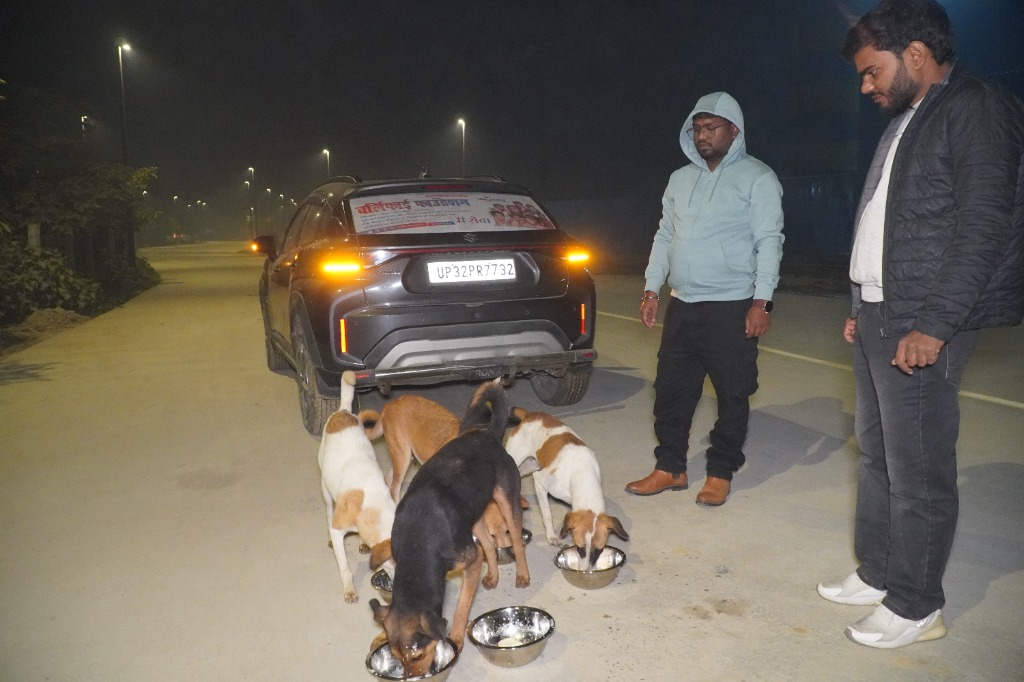
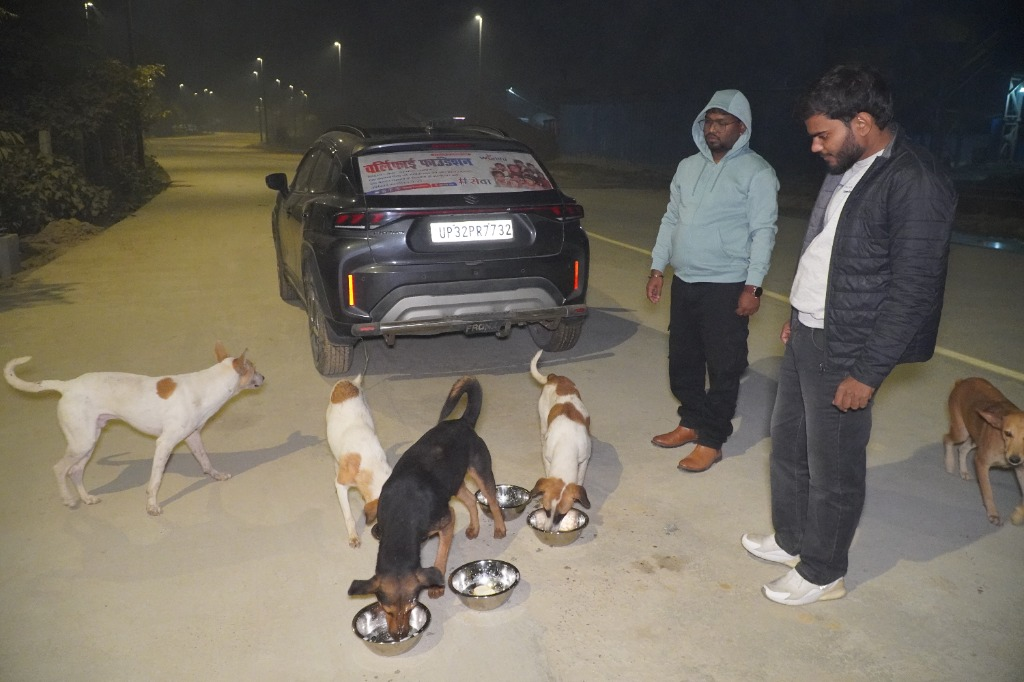
fixes

diff --git a/src/components/Gallery.jsx b/src/components/Gallery.jsx
@@ -31,6 +31,9 @@ import elderlyWelfare from '../assets/images/elderly_welfare_check.png';
 import homeRepair from '../assets/images/home_repair_widow.png';
 import saharaHero from '../assets/images/sahara_hero_support.png';
 import seniorMedicine from '../assets/images/senior_medicine_distribution.png';
+import galleryAward from '../assets/images/gallery_award_presentation.jpg';
+import galleryPlantation from '../assets/images/gallery_tree_plantation.jpg';
+import kioskBooth from '../assets/images/worlify_kiosk_booth.jpg';
 
 export default function Gallery({ setActiveTab, setDonationPreload }) {
   // Filter & Pagination States
@@ -54,26 +57,26 @@ export default function Gallery({ setActiveTab, setDonationPreload }) {
   const galleryItems = useMemo(() => [
 
     {
-      id: 2,
-      title: "Elderly Food Ration & Healthcare Support Drive",
-      category: "Senior Care",
-      image: elderlyFood,
-      description: "Monthly nutritious ration distribution and wellness checks for abandoned senior citizens.",
-      views: "3.9k Views",
-      date: "May 2026",
-      fullStory: "Our Project Sahara ensures destitute elderly citizens receive monthly dry ration boxes, essential vitamin supplements, and weekly door-step nurse visits across suburban informal settlements.",
-      location: "Varanasi & Kanpur Shelters"
+      id: 1,
+      title: "Amity Euphoria 2026 Honor & Award Ceremony",
+      category: "Volunteers",
+      image: galleryAward,
+      description: "Recognizing outstanding youth leadership and social impact contributions.",
+      views: "8.5k Views",
+      date: "Feb 2026",
+      fullStory: "Worlify Foundation leadership receiving the honor award at Amity Euphoria 2026 for outstanding community service, youth mobilization, and social welfare drives.",
+      location: "Amity University, Lucknow"
     },
     {
-      id: 3,
-      title: "Mobile Medical Units in High Altitude Hamlets",
-      category: "Health",
-      image: seniorMedicine,
-      description: "Custom-outfitted all-terrain clinics delivering vaccines & medicine to remote hamlets.",
-      views: "3.1k Views",
+      id: 2,
+      title: "Community Green Canopy & Tree Plantation Drive",
+      category: "Environment",
+      image: galleryPlantation,
+      description: "Planting native saplings and nurturing green spaces with student volunteers.",
+      views: "7.2k Views",
       date: "May 2026",
-      fullStory: "High altitude isolation should never dictate health outcomes. Our custom-outfitted, all-terrain mobile clinic vans traverse challenging mountain roads weekly, providing free checkups and vital medication.",
-      location: "Uttarakhand Hill Outposts"
+      fullStory: "Volunteers and environmental enthusiasts coming together to plant native saplings and install watering setups to ensure sustainable green growth across community compounds.",
+      location: "Lucknow Green Drive"
     },
 
     {
@@ -133,14 +136,14 @@ export default function Gallery({ setActiveTab, setDonationPreload }) {
     },
     {
       id: 10,
-      title: "Cattle Fodder & Stray Livestock Care Drive",
-      category: "Animal Welfare",
-      image: "/images/gallery/animal-welfare/animal_1.jpg",
-      description: "Providing fresh fodder, medical treatment, and shelter support for distressed animals.",
-      views: "3.3k Views",
+      title: "Worlify Foundation Awareness & Community Kiosk",
+      category: "Community Support",
+      image: kioskBooth,
+      description: "Mobile awareness kiosk spreading education, women empowerment, & child welfare mission.",
+      views: "5.8k Views",
       date: "Jan 2026",
-      fullStory: "During extreme heatwaves, farm animals and stray livestock suffer severe dehydration. Our mobile animal care vans distributed 10 tons of nutritious fodder and veterinary care across 12 villages.",
-      location: "Mathura Rural Shelter"
+      fullStory: "Our custom Worlify Foundation awareness & community kiosk provides direct consultation, donation guidance, and information on child education, women empowerment, and social welfare programs.",
+      location: "Lucknow City Center"
     },
     {
       id: 11,

diff --git a/src/data/campaignsData.js b/src/data/campaignsData.js
@@ -14,6 +14,8 @@ import annSevaStall from '../assets/images/ann_seva_stall.jpg';
 import saharaMobileVan from '../assets/images/sahara_mobile_van.jpg';
 import apnaAashiyanaBranch from '../assets/images/apna_aashiyana_branch.jpg';
 import jeevandanDonorBox from '../assets/images/jeevandan_donor_box.jpg';
+import animalRescueNight from '../assets/images/animal_rescue_night.jpg';
+import animalFeedingNight from '../assets/images/animal_feeding_night.jpg';
 import saharaHeroSupport from '../assets/images/sahara_hero_support.png';
 import elderlyWelfareCheck from '../assets/images/elderly_welfare_check.png';
 import homeRepairWidow from '../assets/images/home_repair_widow.png';
@@ -600,7 +602,7 @@ export const CAMPAIGNS_DATA = {
       border: 'rgba(2, 132, 199, 0.25)',
       glow: 'rgba(2, 132, 199, 0.3)'
     },
-    heroImage: typeof sliderNew2 === 'string' ? sliderNew2 : sliderNew2.src,
+    heroImage: typeof animalRescueNight === 'string' ? animalRescueNight : animalRescueNight.src,
     howWeHelp: [
       {
         id: 'vet-vans',
@@ -634,8 +636,8 @@ export const CAMPAIGNS_DATA = {
       { number: 365, suffix: ' Days', label: 'Active Rescue Van', iconName: 'Clock' }
     ],
     gallery: [
-      { url: typeof sliderNew2 === 'string' ? sliderNew2 : sliderNew2.src, caption: 'Rescue team attending an injured stray animal' },
-      { url: typeof sliderNew1 === 'string' ? sliderNew1 : sliderNew1.src, caption: 'Street animal feeding drive in urban hubs' },
+      { url: typeof animalFeedingNight === 'string' ? animalFeedingNight : animalFeedingNight.src, caption: 'Night stray animal feeding drive in urban areas' },
+      { url: typeof animalRescueNight === 'string' ? animalRescueNight : animalRescueNight.src, caption: 'Street animal night rescue and feeding drive' },
       { url: typeof slider3 === 'string' ? slider3 : slider3.src, caption: 'Reflective collar installation drive for stray dogs' },
       { url: typeof cattleFodderDistribution === 'string' ? cattleFodderDistribution : cattleFodderDistribution.src, caption: 'Cattle fodder distribution program' }
     ],
